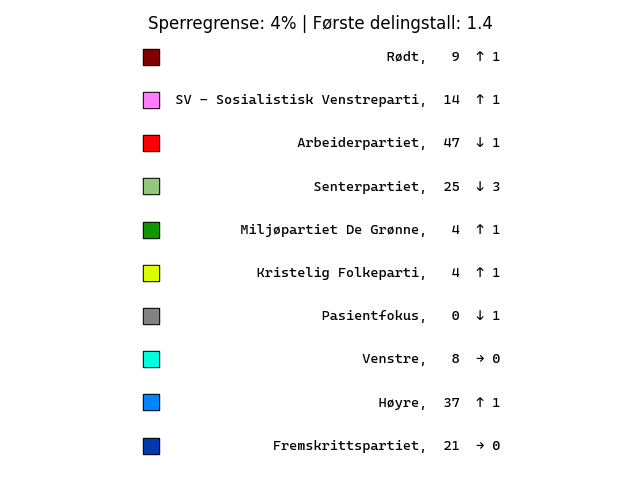
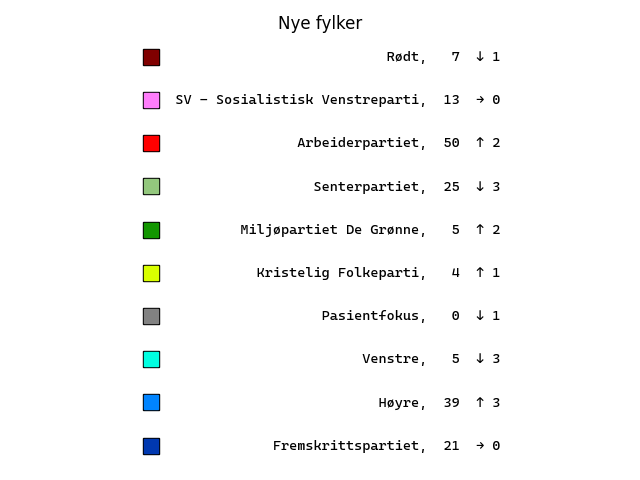
Many updates

diff --git a/election.py b/election.py
@@ -9,68 +9,8 @@ import pandas as pd
 from district import District
 
 
-def main():
-    parser = argparse.ArgumentParser()
-    parser.add_argument("-d", "--displaydistricts",
-                        help = "Display direct seats from all districts",
-                        action = "store_true")
-    parser.add_argument("-b", "--blanks",
-                        help = "Display statistics of blank votes",
-                        action = "store_true")
-    parser.add_argument("-l", "--levelinglimit",
-                        help = "The vote share required to be awarded leveling seats",
-                        default = 4,
-                        metavar = "VOTESHARE",
-                        type = float)
-    parser.add_argument("-i", "--individuals",
-                        help = "Display direct seats from individual districts provided as arguments",
-                        nargs = "+",
-                        default = [],
-                        metavar = "DISTRICTS",
-                        type = str)
-    parser.add_argument("-r", "--runanalyze",
-                        help = "Run various analyses on the election results",
-                        action = "store_true")
-    parser.add_argument("-p", "--plot",
-                        help = "Create the plots",
-                        action = "store_true")
-    parser.add_argument("-n", "--noshow",
-                        help = "Suppress the plots being displayed (only save)",
-                        action = "store_true")
-    parser.add_argument("-s", "--startdivisor",
-                        help = "Set the initial divisor (default 1.4)",
-                        default = 1.4,
-                        type = float)
-    parser.add_argument("-a", "--areamultiplier",
-                        help = "Area multiplier for distribution of seats to districts (default 1.8)",
-                        default = 1.8,
-                        type = float)
-    parser.add_argument("-t", "--title",
-                        help = "Title for the plots (default is no title)",
-                        default = "",
-                        type = str)
-    parser.add_argument("-f", "--folder",
-                        help = "Folder to save plots in",
-                        default = "./figs",
-                        type = str)
-    args = parser.parse_args()
-
-    norway = NewCountiesNorway(args)
-    norway.calculate()
-    norway.show_results()
-
-    if args.displaydistricts or args.individuals:
-        norway.show_individual_districts()
-
-    if args.runanalyze:
-        norway.analyze()
-
-    if args.plot:
-        norway.plot_results()
-
-
 class Norway:
-    def __init__(self, args, filename = "2021-09-17_partydist.csv"):
+    def __init__(self, args, filename = "2021-09-17_partydist.csv", leveling_seats = True):
         self._active_message = False
         self.args = args
         self.results = pd.read_csv(filename, delimiter = ";")
@@ -200,6 +140,21 @@ class Norway:
         self.locations = locations
         self.parties_left_to_right = parties_left_to_right
         self.parties_actual_distri = parties_actual_distri
+        self.allow_leveling_seats = leveling_seats
+        self.add_votes_dict = {}
+        self.transfer_votes_dict = {}
+
+    def add_votes(self, district, party, votes):
+        if district in self.add_votes_dict:
+            parties_dict = self.add_votes_dict[district]
+            parties_dict[party] = votes
+        else:
+            parties_dict = {party: votes}
+
+        self.add_votes_dict[district] = parties_dict
+
+    def transfer_votes(self, from_party, to_party):
+        self.transfer_votes_dict[from_party] = to_party
 
     def _calculate_seat_distribution(self):
         seat_distribution = District(169, initial_divisor = 1)
@@ -216,16 +171,17 @@ class Norway:
         s = 0 # check that the total is 169 as well
         for key, item in self.total_seats.items():
             s += item
-            self.seats_without_leveling[key] = item - 1
+            self.seats_without_leveling[key] = item - int(self.allow_leveling_seats)
         assert s == 169 # check that the total is 169 as well
 
-    def _calculate_direct_seats(self):
+    def _calculate_direct_seats(self, method = "stlague"):
         results = self.results
         total_seats = self.total_seats
         seats_without_leveling = self.seats_without_leveling
 
         party_votes_total = {}
         party_names = {}
+        party_ids = {}
         distribution = {}
         district_distributions = {}
         votes_per_seat = {}
@@ -239,14 +195,23 @@ class Norway:
                                              np.round(total_votes_dis/total_seats[district_name], 1)]
 
             electoral_district = District(seats_without_leveling[district_name],
-                                          initial_divisor = self.args.startdivisor)
+                                          initial_divisor = self.args.startdivisor,
+                                          method = method)
 
             for party in parties:
                 results_party = results_dis[results_dis["Partikode"] == party]
                 party_name = results_party.Partinavn.unique()
                 assert len(party_name) == 1 # check that only one party name belongs to the party code
                 party_names[party] = party_name[0]
+                party_ids[party_name[0]] = party
                 votes = np.sum(results_party["Antall stemmer totalt"])
+                if district_name in self.add_votes_dict:
+                    if party in self.add_votes_dict[district_name]:
+                        votes_add = self.add_votes_dict[district_name][party]
+                        votes += votes_add
+
+                if party in self.transfer_votes_dict:
+                    party = self.transfer_votes_dict[party]
 
                 if party in party_votes_total:
                     party_votes_total[party] += votes
@@ -281,6 +246,7 @@ class Norway:
 
         self.party_votes_total = party_votes_total
         self.party_names = party_names
+        self.party_ids = party_ids
         self.distribution = distribution
         self.district_distributions = district_distributions
         self.votes_per_seat = votes_per_seat
@@ -393,7 +359,6 @@ class Norway:
                 seats_to_award = leveling_distribution[party] - distribution[party]
             else:
                 seats_to_award = leveling_distribution[party]
-            #print(party, seats_to_award)
             if district in leveling_awards:
                 continue
             if party in parties_awarded:
@@ -423,11 +388,11 @@ class Norway:
         self.total_minus_blanks = self.total_votes - self.number_of_blanks
         self.blank_votes = blank_votes
 
-    def calculate(self):
+    def calculate(self, dist_method = "stlague"):
         self._calculate_seat_distribution()
         self._calculate_blanks()
         self._message_start("Calculating main distribution")
-        self._calculate_direct_seats()
+        self._calculate_direct_seats(method = dist_method)
         self._message_start("Calculating leveling seats for parties")
         self._calculate_leveling_seats_parties()
         self._message_start("Calculating leveling seats for districts")
@@ -533,6 +498,7 @@ class Norway:
         self.plot_parliament()
         self.plot_num_seats()
         self.plot_map()
+        self.plot_blocks()
         if not self.args.noshow: plt.show()
 
     def plot_parliament(self, save = True):
@@ -682,10 +648,62 @@ class Norway:
         plt.legend()
         if save: plt.savefig(os.path.join(self.args.folder, "kart.png"))
 
+    def plot_blocks(self, save = True):
+        plt.figure(figsize = (14,9))
+        plt.title(self.args.title)
+        plt.tight_layout()
+
+        plt.ylim(-7, 1)
+        plt.xlim(-1, 170)
+        
+        blocks = {"Jonas' drøm": ("A", "SP", "SV"),
+                  "Veldigrød+littgrønn": ("A", "SV", "RØDT", "MDG"),
+                  "'Hele venstresiden'": ("A", "SP", "SV", "RØDT", "MDG"),
+                  "Ernas drøm": ("H", "FRP", "V", "KRF"),
+                  "Sentrum-Høyre": ("H", "V", "KRF"),
+                  "Hæ?": ("H", "SP", "V", "KRF"),
+                  "Pls no": ("H", "SP", "FRP")}
+
+        legend_parties = []
+
+        for i, key in enumerate(blocks):
+            item = blocks[key]
+            plt.text(1, -i + 0.4, key, fontfamily = {"Cascadia Code"})
+            plt.barh(-i, 0.2, 0.8, left = 84.9, color = "black")
+            plt.barh(-i, 169, 0.6, color = "#bbbbbb", edgecolor = "black")
+
+            left = 0
+            for party in item:
+                if party not in self.distribution_with_leveling:
+                    continue
+                seats = self.distribution_with_leveling[party][0]
+                if not party in legend_parties:
+                    label = party
+                    legend_parties.append(party)
+                else:
+                    label = None
+                plt.barh(-i, seats, 0.6, left = left,
+                         color = self.parties_left_to_right[party],
+                         edgecolor = "black", label = label)
+                left += seats
+
+            for party, color in self.parties_left_to_right.items():
+                if party not in self.distribution_with_leveling:
+                    continue
+                data = self.distribution_with_leveling[party]
+                if party not in item:
+                    seats = data[0]
+                    plt.barh(-i, seats, 0.6, left = left,
+                             color = color,
+                             edgecolor = "black", alpha = 0.05)
+                    left += seats
+
+        plt.legend()
+       
 
 class NewCountiesNorway(Norway):
-    def __init__(self, args, filename = "2021-09-17_partydist.csv"):
-        super().__init__(args, filename = filename)
+    def __init__(self, args, filename = "2021-09-17_partydist.csv", leveling_seats = True):
+        super().__init__(args, filename = filename, leveling_seats = leveling_seats)
 
         new_counties = {"Vestland": [12, 14],
                         "Agder": [9, 10],
@@ -740,8 +758,7 @@ class NewCountiesNorway(Norway):
             new_fylkenavn = old_to_new_mapping[old_fylkenavn]
             data["Fylkenavn"] = new_fylkenavn
             self.results.iloc[index] = data
-
-        
+      
     def plot_map(self, save = True):
         plt.figure(figsize = (14,9))
         plt.title(self.args.title)
@@ -798,6 +815,66 @@ class NewCountiesNorway(Norway):
         plt.axis("off")
         plt.legend()
         if save: plt.savefig(os.path.join(self.args.folder, "kart.png"))
+
+
+def main():
+    parser = argparse.ArgumentParser()
+    parser.add_argument("-d", "--displaydistricts",
+                        help = "Display direct seats from all districts",
+                        action = "store_true")
+    parser.add_argument("-b", "--blanks",
+                        help = "Display statistics of blank votes",
+                        action = "store_true")
+    parser.add_argument("-l", "--levelinglimit",
+                        help = "The vote share required to be awarded leveling seats",
+                        default = 4,
+                        metavar = "VOTESHARE",
+                        type = float)
+    parser.add_argument("-i", "--individuals",
+                        help = "Display direct seats from individual districts provided as arguments",
+                        nargs = "+",
+                        default = [],
+                        metavar = "DISTRICTS",
+                        type = str)
+    parser.add_argument("-r", "--runanalyze",
+                        help = "Run various analyses on the election results",
+                        action = "store_true")
+    parser.add_argument("-p", "--plot",
+                        help = "Create the plots",
+                        action = "store_true")
+    parser.add_argument("-n", "--noshow",
+                        help = "Suppress the plots being displayed (only save)",
+                        action = "store_true")
+    parser.add_argument("-s", "--startdivisor",
+                        help = "Set the initial divisor (default 1.4)",
+                        default = 1.4,
+                        type = float)
+    parser.add_argument("-a", "--areamultiplier",
+                        help = "Area multiplier for distribution of seats to districts (default 1.8)",
+                        default = 1.8,
+                        type = float)
+    parser.add_argument("-t", "--title",
+                        help = "Title for the plots (default is no title)",
+                        default = "",
+                        type = str)
+    parser.add_argument("-f", "--folder",
+                        help = "Folder to save plots in",
+                        default = "./figs",
+                        type = str)
+    args = parser.parse_args()
+
+    norway = NewCountiesNorway(args, leveling_seats = False)
+    norway.calculate()
+    norway.show_results()
+
+    if args.displaydistricts or args.individuals:
+        norway.show_individual_districts()
+
+    if args.runanalyze:
+        norway.analyze()
+
+    if args.plot:
+        norway.plot_results()
 
 
 if __name__ == "__main__":

diff --git a/district.py b/district.py
@@ -18,7 +18,8 @@ class District:
 
     def add_votes(self, name, result):
         if name in self._names:
-            print("Party already added, can't be added again. Use `edit_votes()`")
+            idx = self._names.index(name)
+            self._votes[idx] += result
             return
         self._votes.append(result)
         self._names.append(name)
